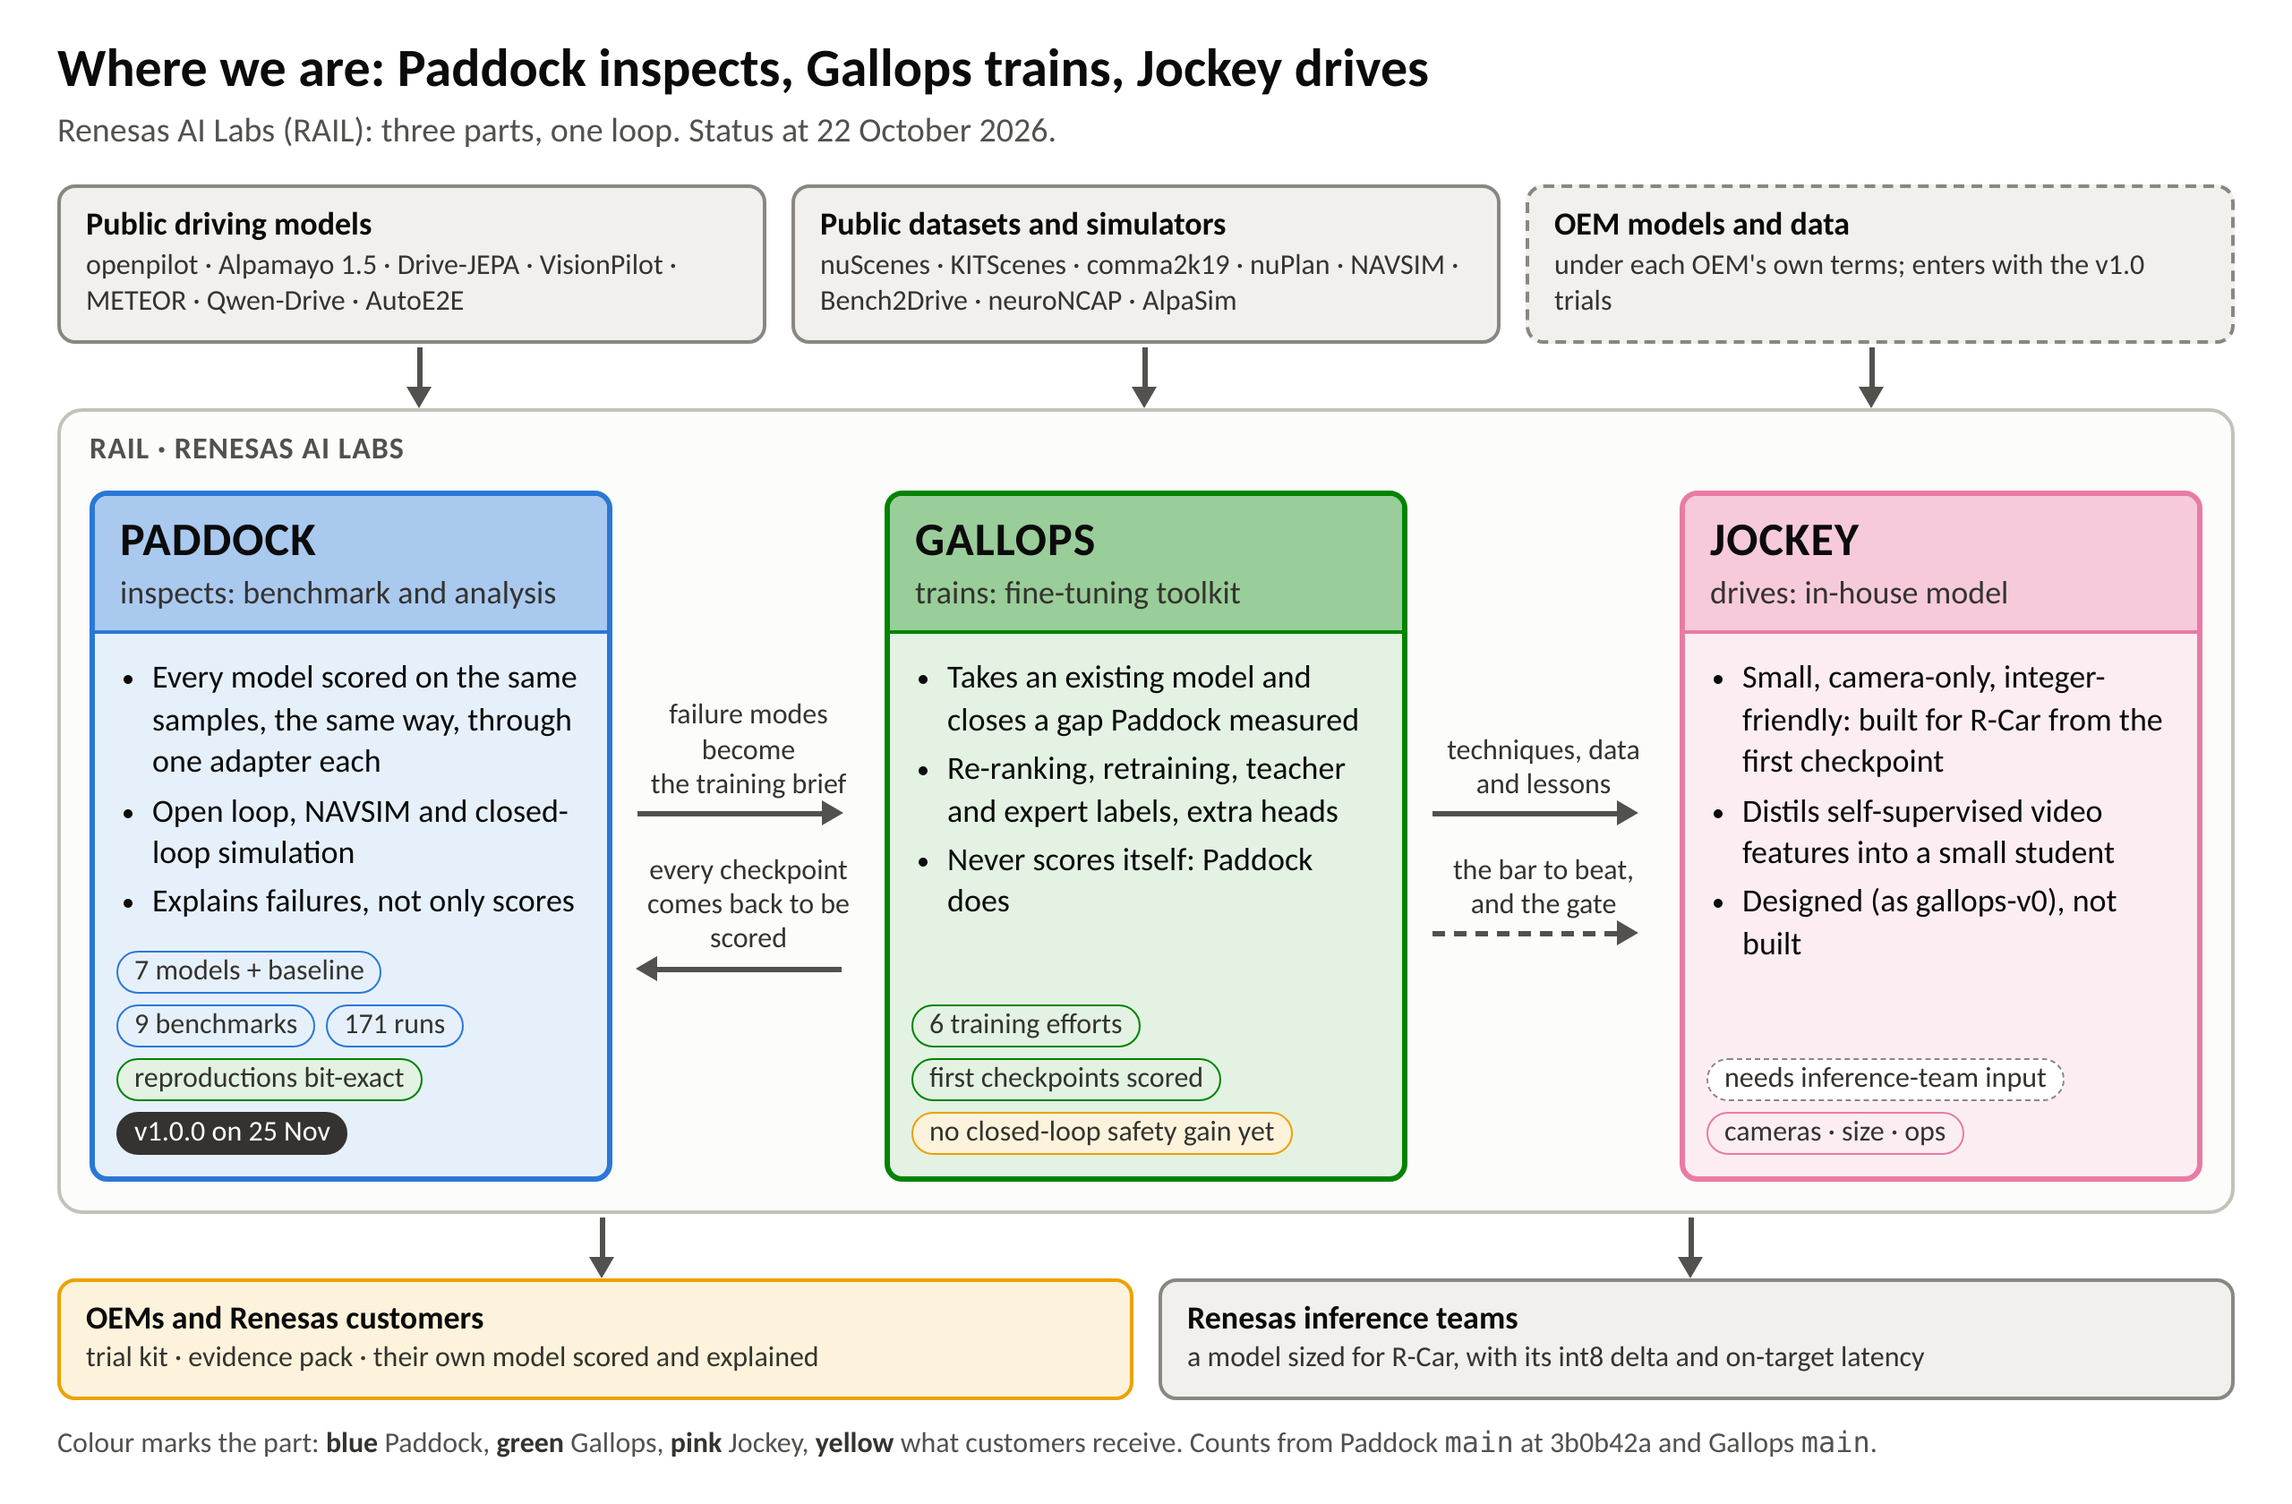
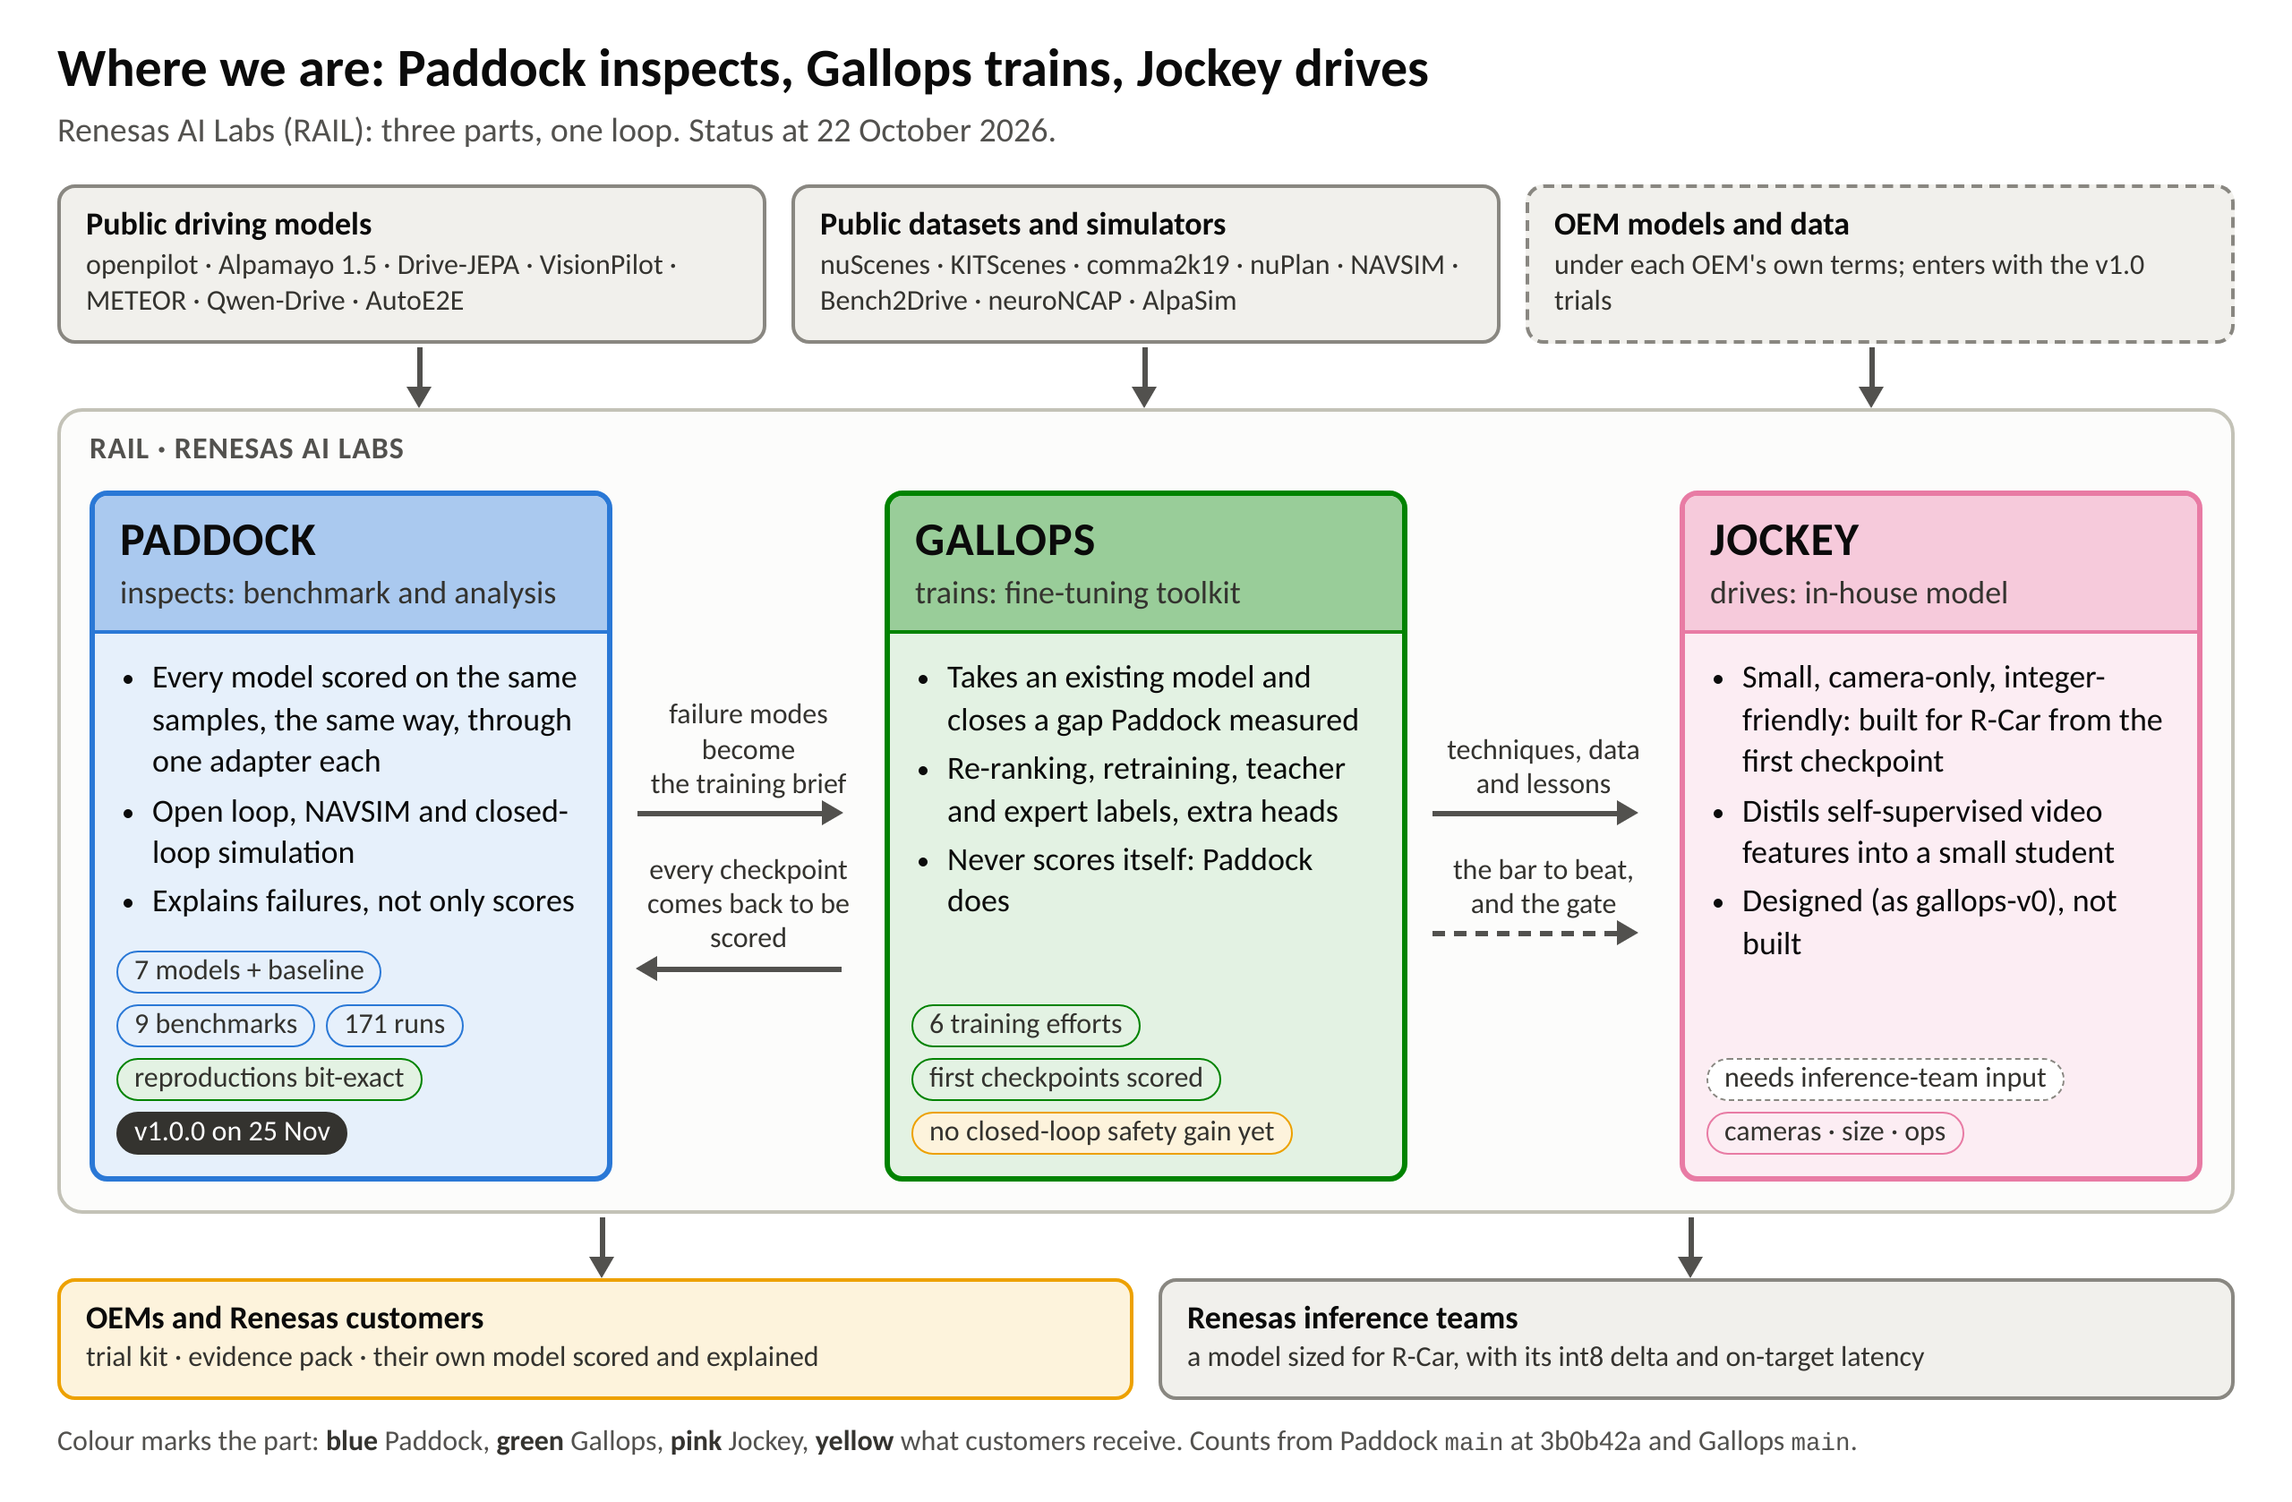
release: using Paddock -- setup, orchestration, compute, storage and results
Strategy doc 4 walks the five steps a site goes through, each as today on
main, what v1.0.0 changes on 25 November, and what comes later. The figure is
the same grid on one screen.

The sizes are the ones the repo already records: 26 GB of GPU memory for the
largest model, CPU-only openpilot and VisionPilot, AlpaSim at 17-41 GB,
KITScenes at 4.2 TB in full against the 223 keyframes the benchmark reads,
5-66 GB per neuroNCAP sweep, 5.5 MB for every tracked result. The S/M/L
reference sizes and the three boundaries on containers are argued, and say
so.

The figure stylesheet now draws code a little smaller than body text; the
earlier figures are re-rendered with it.

diff --git a/docs/release/figures/src/using-paddock.html b/docs/release/figures/src/using-paddock.html
@@ -1,0 +1,72 @@
+<!doctype html>
+<html lang="en">
+<head>
+<meta charset="utf-8">
+<title>Using Paddock: setup, orchestration, compute, storage, results</title>
+<link rel="stylesheet" href="figures.css">
+<style>
+  .grid { display: grid; grid-template-columns: 128px repeat(5, 1fr); gap: 8px; }
+  .chev { position: relative; padding: 10px 22px 10px 26px; background: var(--blue-t); color: var(--ink);
+          clip-path: polygon(0 0, calc(100% - 16px) 0, 100% 50%, calc(100% - 16px) 100%, 0 100%, 16px 50%); }
+  .chev:first-of-type { clip-path: polygon(0 0, calc(100% - 16px) 0, 100% 50%, calc(100% - 16px) 100%, 0 100%); padding-left: 16px; }
+  .chev .n { font-size: 21px; font-weight: 700; }
+  .chev .w { font-size: 16px; color: var(--ink2); line-height: 1.2; }
+  .rl { display: flex; flex-direction: column; justify-content: center; padding: 8px 6px 8px 0; }
+  .rl .t { font-size: 19px; font-weight: 700; }
+  .rl .d { font-size: 16px; color: var(--muted); }
+  .cell { border: 1.5px solid var(--rule); border-radius: 8px; padding: 8px 10px; font-size: 17px; line-height: 1.25; background: #fff; }
+  .cell ul { margin: 0; padding-left: 16px; }
+  .cell li { margin: 2px 0; }
+  .now .cell { background: var(--wash); }
+  .v10 .cell { border: 2px solid var(--blue); background: var(--blue-w); }
+  .later .cell { border-style: dashed; }
+  .row-wrap { display: contents; }
+</style>
+</head>
+<body>
+<div class="figure" id="using-paddock">
+  <div class="fig-head">
+    <div class="fig-title">Using Paddock: five steps, today and in v1.0.0</div>
+    <div class="fig-sub">What a site needs for each step, what exists on <code>main</code> today, and what the 25 November release changes.</div>
+  </div>
+
+  <div class="grid">
+    <div></div>
+    <div class="chev"><div class="n">Setup</div><div class="w">install Paddock, models, data</div></div>
+    <div class="chev"><div class="n">Orchestration</div><div class="w">launch, watch, resume</div></div>
+    <div class="chev"><div class="n">Compute</div><div class="w">GPUs and CPUs</div></div>
+    <div class="chev"><div class="n">Storage</div><div class="w">data, weights, outputs</div></div>
+    <div class="chev"><div class="n">Results</div><div class="w">scores, renders, reports</div></div>
+
+    <div class="row-wrap now">
+      <div class="rl"><div class="t">Today</div><div class="d"><code>main</code>, 22 Oct</div></div>
+      <div class="cell"><ul><li>nine model environments built by hand</li><li>vendor code cloned and patched by hand</li><li><code>paddock setup</code> is a stub</li></ul></div>
+      <div class="cell"><ul><li>one host</li><li>each model in its own process, behind a local web service</li><li>waits for GPU memory; resumes runs</li></ul></div>
+      <div class="cell"><ul><li>shared research servers</li><li>largest model needs 26 GB of GPU memory</li><li>openpilot and VisionPilot run on a CPU</li></ul></div>
+      <div class="cell"><ul><li>each site keeps its own copies</li><li>KITScenes 4.2 TB in full; NAVSIM test set ~95 GB</li><li>a closed-loop sweep: tens of GB</li></ul></div>
+      <div class="cell"><ul><li>a small record per run, tracked in git</li><li>leaderboard and a regression gate</li><li>renders for 5 of 9 benchmarks</li></ul></div>
+    </div>
+
+    <div class="row-wrap v10">
+      <div class="rl"><div class="t">v1.0.0</div><div class="d">25 November</div></div>
+      <div class="cell"><ul><li>one container image per model in the trial matrix</li><li><code>paddock setup</code> by profile, gated by <code>doctor</code></li><li>download scripts with checksums</li></ul></div>
+      <div class="cell"><ul><li>the same runner, launching containers</li><li>a certification run on install</li><li>each run records commit, image, weight and data hashes</li></ul></div>
+      <div class="cell"><ul><li>reference sizes: <b>S</b> one 48–96 GB GPU, open loop; <b>M</b> 2–4 GPUs, adds NAVSIM</li></ul></div>
+      <div class="cell"><ul><li>evaluation subsets with manifests</li><li>results written to the customer's own location</li></ul></div>
+      <div class="cell"><ul><li>a presentation-grade leaderboard</li><li>an evidence pack</li><li>an onboarding guide</li></ul></div>
+    </div>
+
+    <div class="row-wrap later">
+      <div class="rl"><div class="t">Later</div><div class="d">v1.1 and after</div></div>
+      <div class="cell"><ul><li>images for simulators</li><li>an offline bundle for air-gapped sites</li></ul></div>
+      <div class="cell"><ul><li>a job queue in the browser app</li><li>Slurm or Kubernetes</li></ul></div>
+      <div class="cell"><ul><li><b>L</b>: a GPU cluster for full closed-loop sweeps</li></ul></div>
+      <div class="cell"><ul><li>a shared workspace: read-only data and model stores, a writable area per user</li></ul></div>
+      <div class="cell"><ul><li>a browser app: runs, videos, graphs, code, reports</li></ul></div>
+    </div>
+  </div>
+
+  <div class="fig-foot">Blue row: in the v1.0.0 release. Dashed: proposed for later releases. Sources and sizes in <code>docs/release/1-strategy/04-using-paddock.md</code>.</div>
+</div>
+</body>
+</html>

diff --git a/docs/release/figures/src/figures.css b/docs/release/figures/src/figures.css
@@ -98,6 +98,7 @@ body {
 .small { font-size: 16px; }
 .muted { color: var(--muted); }
 .num { font-variant-numeric: tabular-nums; font-weight: 700; }
+code { font-family: "Liberation Mono", "DejaVu Sans Mono", monospace; font-size: 0.86em; }
 ul.tight { margin: 4px 0 0; padding-left: 20px; }
 ul.tight li { margin: 2px 0; }
 

diff --git a/docs/release/1-strategy/04-using-paddock.md b/docs/release/1-strategy/04-using-paddock.md
@@ -1,0 +1,167 @@
+# 4 · Using Paddock: setup, orchestration, compute, storage, results
+
+*Level 1, strategy. Answers: what infrastructure does a site need, and what are the
+high-level steps to use Paddock?
+Up: [executive plan](../plan-v1.0.0.md) · Previous: [3 · What customers ask](03-customer-questions.md) ·
+Next: [5 · Outcomes](05-outcomes.md)*
+
+**The point**
+- **Five steps.** Today, someone who knows the codebase does each one by hand.
+- **v1.0.0 automates setup and makes results portable and certifiable.**
+- **A hosted demo removes setup** for a first look. Later, a browser app removes it for
+  hands-on use too.
+- **Paddock itself is light:** one Python 3.11 process with six dependencies. The weight
+  is in the models' environments, the data and the simulators.
+
+![Using Paddock: five steps, today and in v1.0.0](../figures/using-paddock.png)
+
+---
+
+## 1. Setup
+
+**What it covers**
+- Paddock itself.
+- One environment per model.
+- Each model's code at a pinned commit, with our patches applied.
+- Weights, datasets, and a site configuration that says where all of it lives.
+
+**Today**
+- **Nine model environments:** six managed by uv, two by conda, one plain virtual
+  environment, Python 3.9 to 3.12. Drive-JEPA and its re-ranker share one.
+- **Vendor repositories are pinned in `repos.yaml`,** but each is cloned and patched by
+  hand.
+- `paddock doctor` checks a site without changing it. `paddock setup` prints "not
+  implemented".
+
+**v1.0.0**
+- One container image per model in the trial matrix, plus a core image and a
+  development container.
+- `paddock setup` for a chosen profile (open loop, NAVSIM).
+- Download scripts that fetch only the evaluation subset, with checksums.
+- `doctor` as the gate between stages, and a certification run at the end.
+
+**Decision: yes to containers, within three boundaries.**
+1. **Images carry environments.** Data and licensed weights are mounted at run time and
+   never baked in.
+2. **One image per model,** because model environments conflict.
+3. **Docker, Podman and Apptainer all work.** The host's GPU driver stays a
+   prerequisite, since an image cannot carry it.
+
+[Packaging and setup](../2-design/packaging-and-setup.md) has the design and the
+alternatives we rejected.
+
+## 2. Orchestration
+
+**Today**
+- `paddock run` starts each model in its own interpreter, behind a local web service.
+- It waits until the declared GPU memory is free before loading, rather than failing
+  minutes into a checkpoint read.
+- It scores the run, then tears everything down.
+- `--resume` continues an interrupted run in place.
+- The regression gate runs tiered smoke subsets. Open PR #100 measured 19 minutes for
+  the quick tier and 2 h 21 min for the closed-loop tier.
+
+**v1.0.0**
+- The same runner, launching containers.
+- A certification run on every new install.
+- Every run records the Paddock commit (PR #100), the image digest, the weight hash and
+  the data hash. Two sites can then prove they ran the same thing.
+
+**Later**
+- A job queue and a launcher in the browser app (v1.1).
+- Multi-node scheduling on Slurm or Kubernetes, for full closed-loop sweeps.
+
+## 3. Compute
+
+| Size | Hardware | Runs |
+|---|---|---|
+| Demo | any Linux laptop, no GPU | CPU-only models on a small public slice |
+| **S** | a workstation with one 48–96 GB GPU | open loop for the trial matrix |
+| **M** | a server with 2–4 GPUs of 80 GB or more | adds NAVSIM, whose scoring is CPU-heavy, and one closed-loop benchmark |
+| **L** | a GPU cluster | the full matrix and closed-loop sweeps (later) |
+
+What drives the sizes:
+- Alpamayo 1.5 declares 26 GB of GPU memory and Qwen-Drive 18 GB. Drive-JEPA needs 12,
+  METEOR 8 and AutoE2E 4.
+- openpilot and VisionPilot run on a CPU.
+- AlpaSim needs about 17 GB for the simulator alone, and about 41 GB with a 10 B model
+  resident.
+
+The hosted demo and trial need their own machine. The shared research servers are
+already contended. [Hosted twin and on-prem kit](../2-design/hosted-twin-and-on-prem-kit.md)
+sizes it.
+
+## 4. Storage
+
+| What | Size |
+|---|---|
+| KITScenes | ~4.2 TB in full; the benchmark reads 223 keyframes of it |
+| comma2k19 | ~100 GB unpacked; ~4.9 TB if every decoded frame is kept |
+| NAVSIM test set | ~95 GB of sensor data, plus a metric cache |
+| nuPlan | ~450 GB of camera images |
+| One neuroNCAP sweep | ~5 GB with videos encoded, ~66 GB keeping every frame |
+| One Bench2Drive sweep, recorded | ~40 GB |
+| All tracked results | 5.5 MB for 171 runs |
+
+**Rules that hold today, and carry into v1.0.0**
+- **Paddock never copies a dataset.** It points at the data where it already is.
+- **The repository names places only through template variables;** the site's own
+  config fills them in. A test fails the build on any machine-specific path.
+- **The small summary of each run is tracked in git.** Per-sample records go outside it.
+
+**v1.0.0 adds**
+- Evaluation subsets with manifests and checksums.
+- A results location the customer chooses, so their numbers never enter our tree.
+
+**Later:** a shared workspace with read-only dataset buckets, a read-only model store
+and a writable area per user ([shared workspace](../2-design/shared-workspace.md)).
+
+## 5. Results
+
+**Today**
+- Per run, a run record and metrics, both kilobytes and both reviewable in a diff.
+- A leaderboard of valid runs.
+- Cross-model renders for 5 of 9 benchmarks.
+- The regression gate's verdicts.
+- One place, `_validity()`, decides whether a run counts.
+
+**v1.0.0**
+- **A presentation-grade leaderboard:** the newest valid run per model, a minimum sample
+  size, tuned runs flagged.
+- **An evidence pack and an onboarding guide.**
+- **Results that are private and certified.**
+
+**Later:** the browser app, with runs, videos, graphs, the code behind each run, and
+reports (v1.1).
+
+## The people a site needs
+
+- **An ML engineer,** who wraps the model.
+- **An infrastructure admin,** for GPUs, containers and storage.
+- **A data and licensing owner,** who clears what may be used.
+
+---
+
+## Sources
+
+**Verified:**
+- Environments: each `model.yaml` and `paddock.toml.example`.
+- Pins: `repos.yaml`.
+- `doctor`: `src/paddock/doctor.py`.
+- `setup` is a stub: `src/paddock/cli.py`.
+- GPU memory per model: the `vram_gb` in each `model.yaml`.
+- AlpaSim: `docs/benchmarks/alpasim.md`.
+- Sizes:
+  - KITScenes: `datasets.yaml`;
+  - comma2k19: `docs/data-setup.md` and `docs/benchmarks/comma2k19.md`;
+  - NAVSIM: `docs/benchmarks/navsim.md`;
+  - nuPlan: `docs/benchmarks/nuplan.md`;
+  - neuroNCAP: `docs/benchmarks/neuroncap.md`;
+  - Bench2Drive: `docs/benchmarks/bench2drive.md`;
+  - results: `du` on `results/`.
+- Gate timings: PR #100's description, one measured run.
+
+**Argued:**
+- The S/M/L sizes.
+- The container boundaries.
+- What v1.0.0 contains.

diff --git a/docs/release/figures/README.md b/docs/release/figures/README.md
@@ -93,3 +93,4 @@ NODE_PATH=<scratch>/node_modules node docs/release/figures/render.cjs rail-map  
 | [rail-map](rail-map.png) | Paddock, Gallops and Jockey, the loop between them, inputs and outputs | executive plan §1, strategy 1, briefing home |
 | [score-vs-driving](score-vs-driving.png) | six models ranked open loop (nuScenes) against closed loop (neuroNCAP): the ranks flip | executive plan §2, strategy 2 |
 | [trial-ladder](trial-ladder.png) | five rungs from an evidence pack to the customer's own model, and which release delivers each | executive plan §3, strategy 3, hands-on access |
+| [using-paddock](using-paddock.png) | setup, orchestration, compute, storage and results: today, in v1.0.0, later | executive plan §4, strategy 4 |
